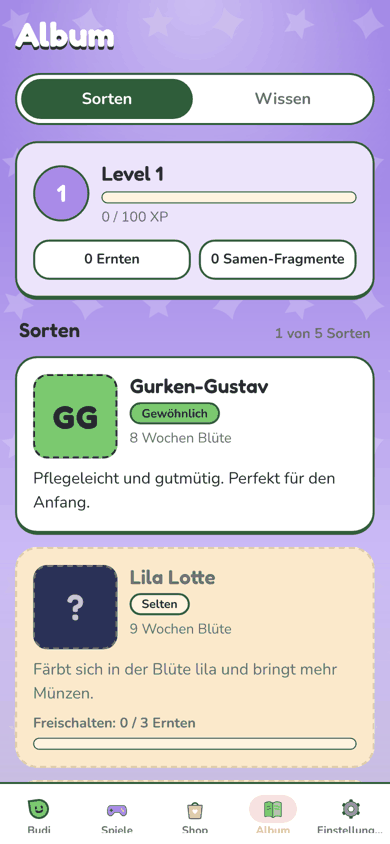
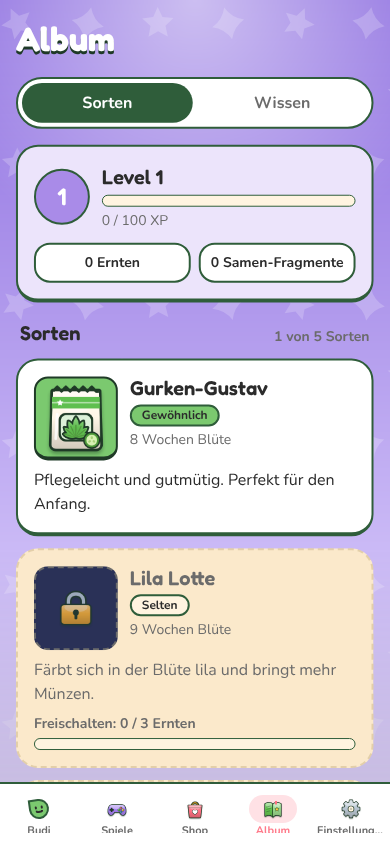
Sortenporträts von ART-2 in den Sortenkarten (Auftrag 50)
Claude-Session: https://claude.ai/code/session_011dft8nu9UNKyTVoUSybkv4

diff --git a/src/components/album/StrainCard.tsx b/src/components/album/StrainCard.tsx
@@ -1,14 +1,14 @@
-import { Text, View } from 'react-native';
+import { Image, Text, View } from 'react-native';
 
 import type { Rarity, Strain } from '../../game/config';
 import { unlockProgress, type ProgressStats } from '../../game/progression';
 import { strainsAlbum } from '../../content/strings';
-import { colors, radii, surface, type ColorName } from '../../lib/theme';
+import { strainArt, ui } from '../../lib/assets';
+import { colors, outline, radii, surface, type ColorName } from '../../lib/theme';
 import { Badge } from '../ui/Badge';
 import { Bar } from '../ui/Bar';
 import { Button } from '../ui/Button';
 import { Card } from '../ui/Card';
-import { IconTile } from '../ui/IconTile';
 
 const DAYS_PER_WEEK = 7;
 const PORTRAIT_SIZE = 84;
@@ -20,7 +20,6 @@ const RARITY_COLOR: Record<Rarity, ColorName> = {
   speed: 'lamp',
   legendary: 'terracotta',
 };
-
 
 interface StrainCardProps {
   strain: Strain;
@@ -64,7 +63,7 @@ function LockedPortrait() {
         justifyContent: 'center',
       }}
     >
-      <Text className="font-heading text-4xl text-white/70">{strainsAlbum.lockSymbol}</Text>
+      <Image source={ui.ui_lock} style={{ width: PORTRAIT_SIZE * 0.5, height: PORTRAIT_SIZE * 0.5, opacity: 0.8 }} />
     </View>
   );
 }
@@ -83,7 +82,22 @@ export function StrainCard({ strain, unlocked, stats, action }: StrainCardProps)
     >
       <View className="flex-row gap-3">
         {unlocked ? (
-          <IconTile label={strainsAlbum.portrait(strain.name)} color={RARITY_COLOR[strain.rarity]} size={PORTRAIT_SIZE} />
+          <View
+            accessibilityLabel={strainsAlbum.portrait(strain.name)}
+            style={{
+              width: PORTRAIT_SIZE,
+              height: PORTRAIT_SIZE,
+              borderRadius: radii.md,
+              backgroundColor: colors[RARITY_COLOR[strain.rarity]],
+              borderWidth: outline.thin,
+              borderBottomWidth: outline.thin + 2,
+              borderColor: outline.color,
+              overflow: 'hidden',
+            }}
+          >
+            {/* Sortenporträt von ART-2. */}
+            <Image source={strainArt[strain.id].portrait} style={{ width: '100%', height: '100%' }} />
+          </View>
         ) : (
           <LockedPortrait />
         )}

diff --git a/docs/progress/art5.md b/docs/progress/art5.md
@@ -30,6 +30,7 @@ Vorher = Stand nach WEB-5 (Bilder in `web5/`), nachher = dieser Branch mit `main
 - **Ernte**: Kiste springt auf, Kamera wackelt, Konfetti, nach dem Hochzählen Münzregen. Neue Sorte als eigene Karte mit Strahlen und Funken (`harvest/NewStrainBanner.tsx`).
 - **Kauf** (Upgrades und Kosmetik): Karte ploppt, Funken spritzen, Münze steigt aus dem Bild (`shop/PurchaseBurst.tsx`).
 - **Feiern im Zimmer** (`feedback/CelebrationLayer.tsx`, `CelebrationCard.tsx`): Phase, Tageskiste und neu **Level-Aufstieg** (`useLevelUps.ts`, hört auf die Erfahrung im Spielstand, nicht beim Laden). Abdunkeln, große kreisende Strahlen, Konfetti, Karte federt herein und wackelt, Budi hüpft, Kiste mit Münzregen.
+- **Sortenkarten** (`album/StrainCard.tsx`): Porträts von ART-2 statt Buchstaben-Kachel, gesperrte Sorten mit Schloss-Grafik.
 - **Rahmen am Rechner** (`frame/AppFrame.web.tsx`, `FrameBrand.tsx`): Verlauf mit Lampenlicht, Farbflecken und Blattmuster, Gehäuse mit dicker Kontur und Glanz, gelber Titel in Spielschrift, hüpfender Budi.
 - **Ladebildschirm** (`public/index.html`): orange Verlauf mit kreisenden Strahlen, "PotPou" in Fredoka mit Kontur, Topf hüpft mit Squash & Stretch und Schatten, dicker gestreifter Ladebalken. Skripte und Preload unverändert.
 - Prüfung: `bash scripts/check.sh` grün (676 Tests), Web- und Android-Export bauen. 390 x 844 und 1280 x 800 ohne Konsolenfehler (nur die bekannten Dokument-404 bei Direktaufruf am lokalen Server, siehe WEB-6).
